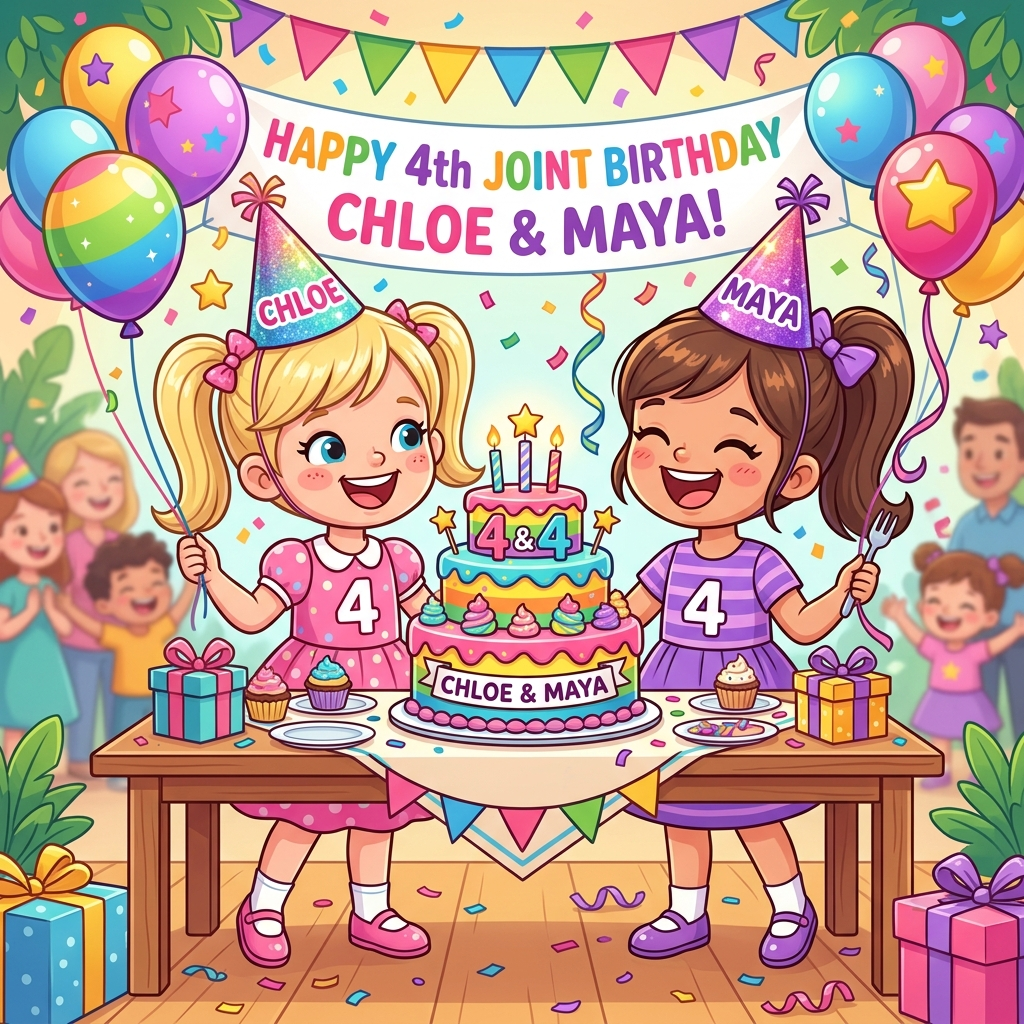
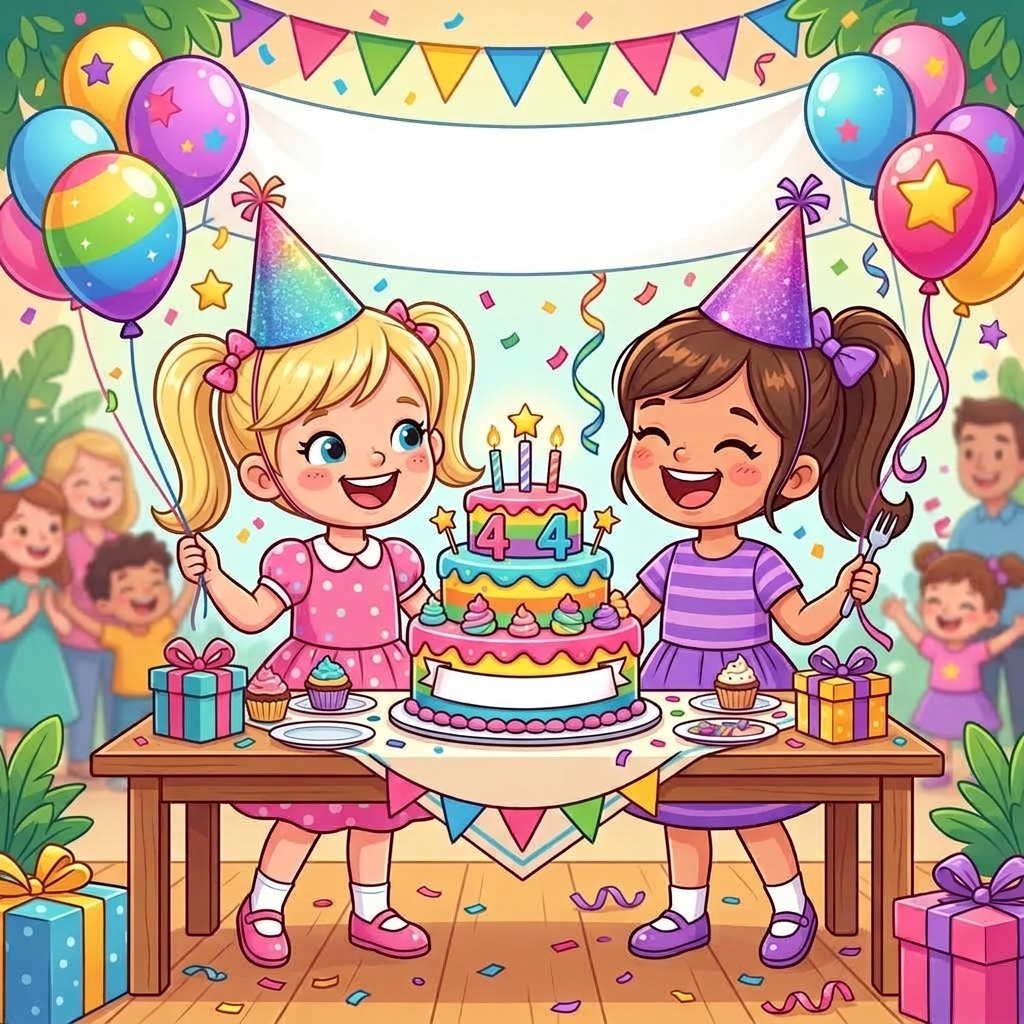
Clean up generated background image and remove hair color descriptions from card text

diff --git a/mira-emma.html b/mira-emma.html
@@ -176,7 +176,7 @@
                 <div class="card-preview">
                     <h3>You're Invited!</h3>
                     <p>Dear <strong class="outGuest">Friend</strong>,</p>
-                    <p>Get ready for double the fun and twice the magic as we celebrate the spectacular birthdays of <strong>Mira Sahin (Brunette) & Emma Walter (Blonde)</strong>!</p>
+                    <p>Get ready for double the fun and twice the magic as we celebrate the spectacular birthdays of <strong>Mira Sahin & Emma Walter</strong>!</p>
                     <p><strong>Theme:</strong> <span class="outTheme">🦄 Unicorns & Magic</span></p>
                     <p><strong>When:</strong> <span class="outDate">Saturday, October 24th at 2:00 PM</span></p>
                     <p><strong>Where:</strong> <span class="outLocation">Partyman World Of Play</span></p>
@@ -188,7 +188,7 @@
                 <div class="card-preview print-only">
                     <h3>You're Invited!</h3>
                     <p>Dear <strong class="outGuest">Friend</strong>,</p>
-                    <p>Get ready for double the fun and twice the magic as we celebrate the spectacular birthdays of <strong>Mira Sahin (Brunette) & Emma Walter (Blonde)</strong>!</p>
+                    <p>Get ready for double the fun and twice the magic as we celebrate the spectacular birthdays of <strong>Mira Sahin & Emma Walter</strong>!</p>
                     <p><strong>Theme:</strong> <span class="outTheme">🦄 Unicorns & Magic</span></p>
                     <p><strong>When:</strong> <span class="outDate">Saturday, October 24th at 2:00 PM</span></p>
                     <p><strong>Where:</strong> <span class="outLocation">Partyman World Of Play</span></p>
